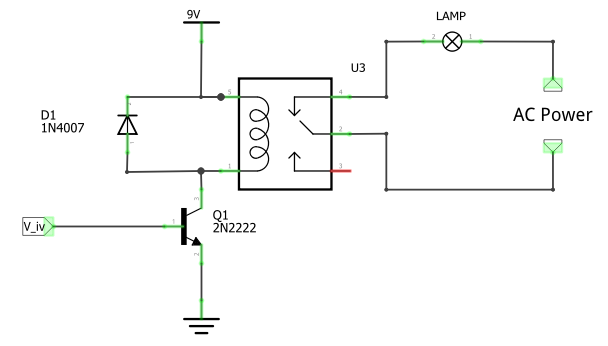
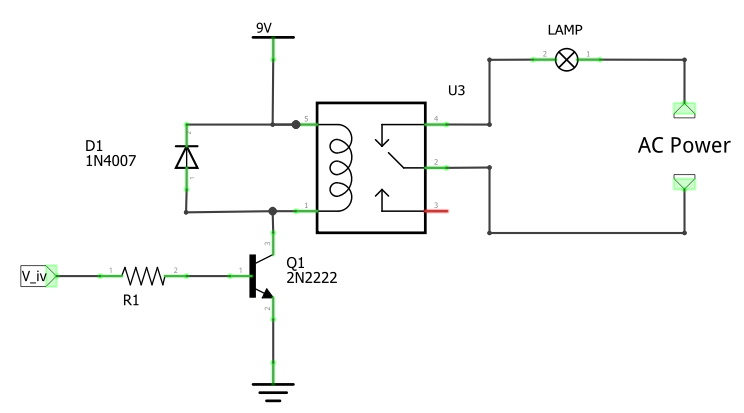
actualizando readme

Changed region(s): [[0.0, 0.0289, 1.0, 0.9827]]

diff --git a/sesion7/README.md b/sesion7/README.md
@@ -190,6 +190,10 @@ Para entender mejor sobre lo anterior, se recomienda revisar el siguiente [link]
 
 En la pagina **Arduino Relay Control Circuit Designing and Code** ([link](https://www.electroniclinic.com/arduino-relay-control-circuit-designing-and-code/)) se describe claramente el procedimiendo para diseñar un driver para relee. Lo mas importante es conocer la corriente necesaria para energizar el relé lo cual se puede hacer midiendo (con un multimetro) la resistencia en la bobina y por medio de la aplicación de la ley de Ohm, conociendo el voltaje que se aplicara sobre la bobina, deducir la corriente asociada a esta, basicamente:
 
+$$I_{Relay} = \frac{V-V_{CE(sat)}}{R}$$
+
+A veces para hacer mas rapido el calculo se suele utilizar la expresión anterior sin tener en cuenta $V_{CE(sat)}$, así:
+
 $$I_{Relay} = \frac{V}{R}$$
 
 Como el Relay sera la carga que controlará el transistor, se deberá verificar que la $I_{C(max)} > I_{Relay}$ (es importante tener en cuenta, que la corriente del colector sea varias veces la corriente de la carga). 
@@ -248,7 +252,7 @@ En el driver anterior abra notado que se usa un diodo conocido como **diodo rued
 
 Antes de realizar el montaje con el arduino, realizar el siguiente montaje mostrado a continuación:
 
-![relay](relay_driver.png)
+![relay](relay_driver2.png)
 
 Y proceda a realizar las siguientes mediciones:
 
